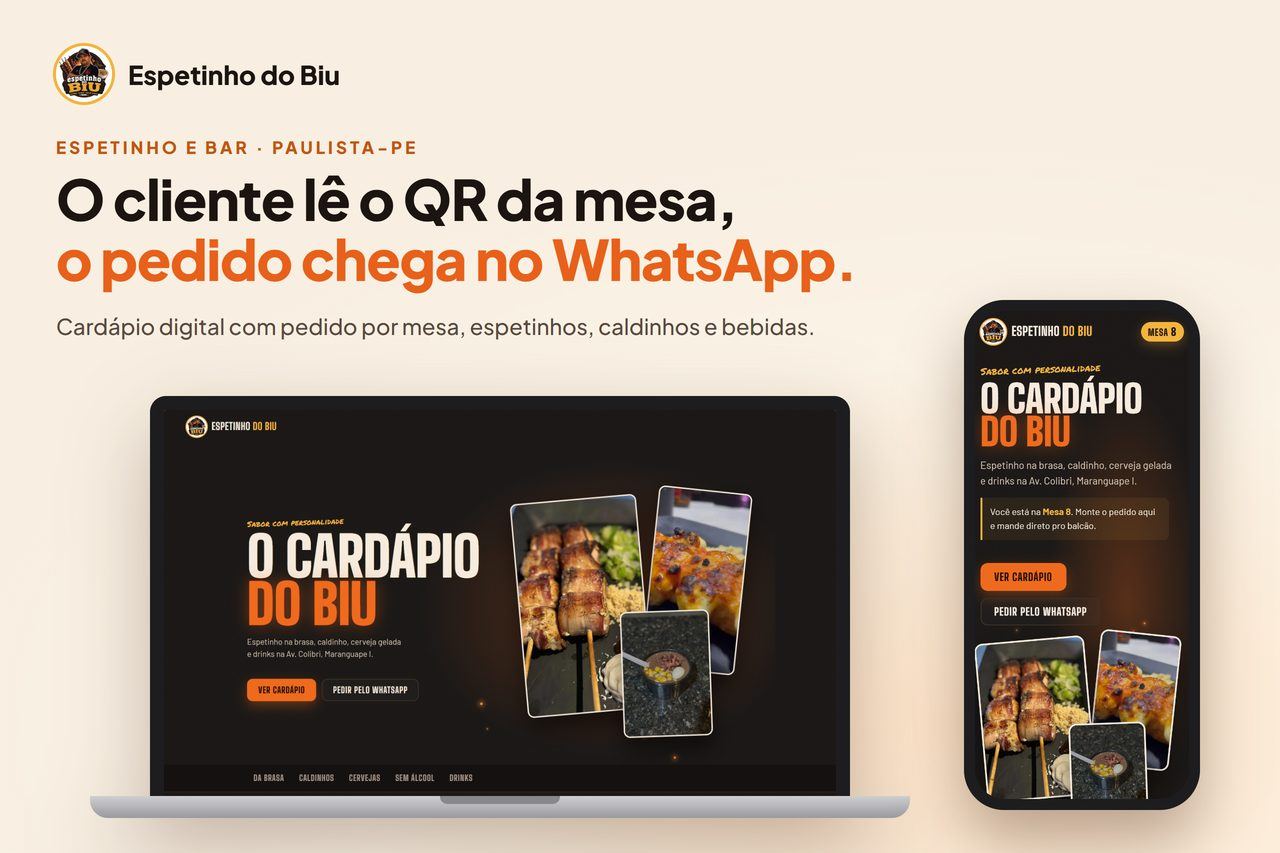
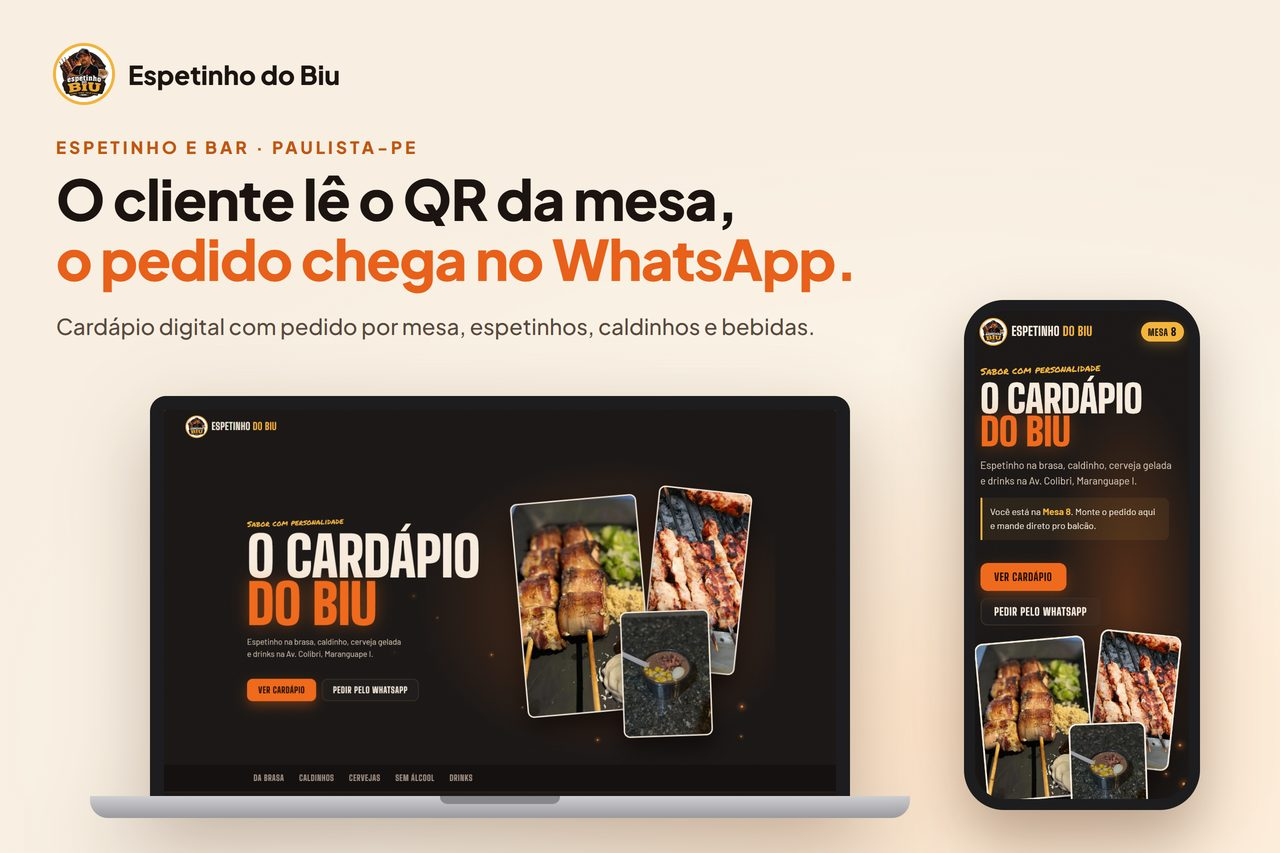
Portfólio: capa do Espetinho do Biu com as fotos novas

Changed region(s): [[0.5, 0.5487, 0.5938, 0.7925], [0.8438, 0.7315, 0.9375, 0.9144]]

diff --git a/index.html b/index.html
@@ -600,7 +600,7 @@
         </div>
         <div class="project-card reveal" data-categoria="comida">
           <div class="project-image">
-            <img src="assets/images/espetinho-do-biu-1280.jpg?v=1" srcset="assets/images/espetinho-do-biu-720.jpg?v=1 720w, assets/images/espetinho-do-biu-1280.jpg?v=1 1280w, assets/images/espetinho-do-biu-2560.jpg?v=1 2560w" sizes="(max-width: 640px) 90vw, 360px" alt="Cardápio digital do Espetinho do Biu no computador e no celular" loading="lazy" onerror="this.onerror=null;this.src='assets/images/placeholder.svg';">
+            <img src="assets/images/espetinho-do-biu-1280.jpg?v=2" srcset="assets/images/espetinho-do-biu-720.jpg?v=2 720w, assets/images/espetinho-do-biu-1280.jpg?v=2 1280w, assets/images/espetinho-do-biu-2560.jpg?v=2 2560w" sizes="(max-width: 640px) 90vw, 360px" alt="Cardápio digital do Espetinho do Biu no computador e no celular" loading="lazy" onerror="this.onerror=null;this.src='assets/images/placeholder.svg';">
             <div class="project-image-overlay"></div>
             <span class="project-badge">Em desenvolvimento</span>
           </div>
